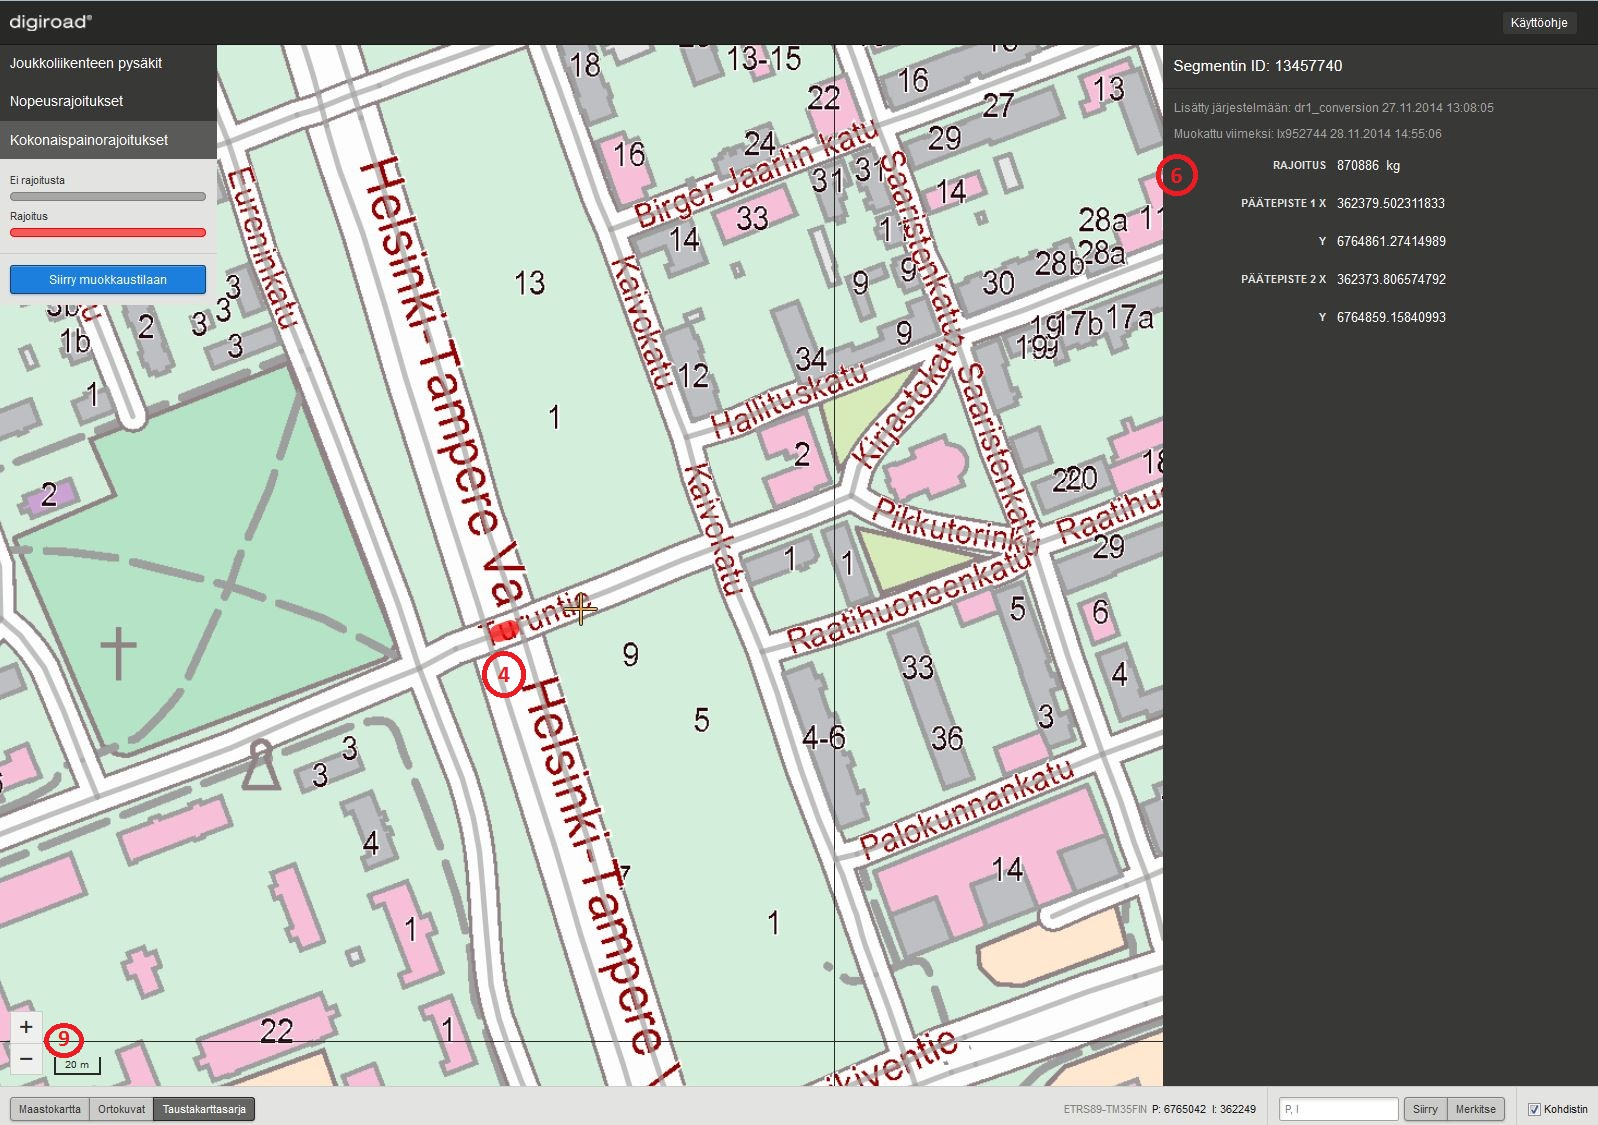
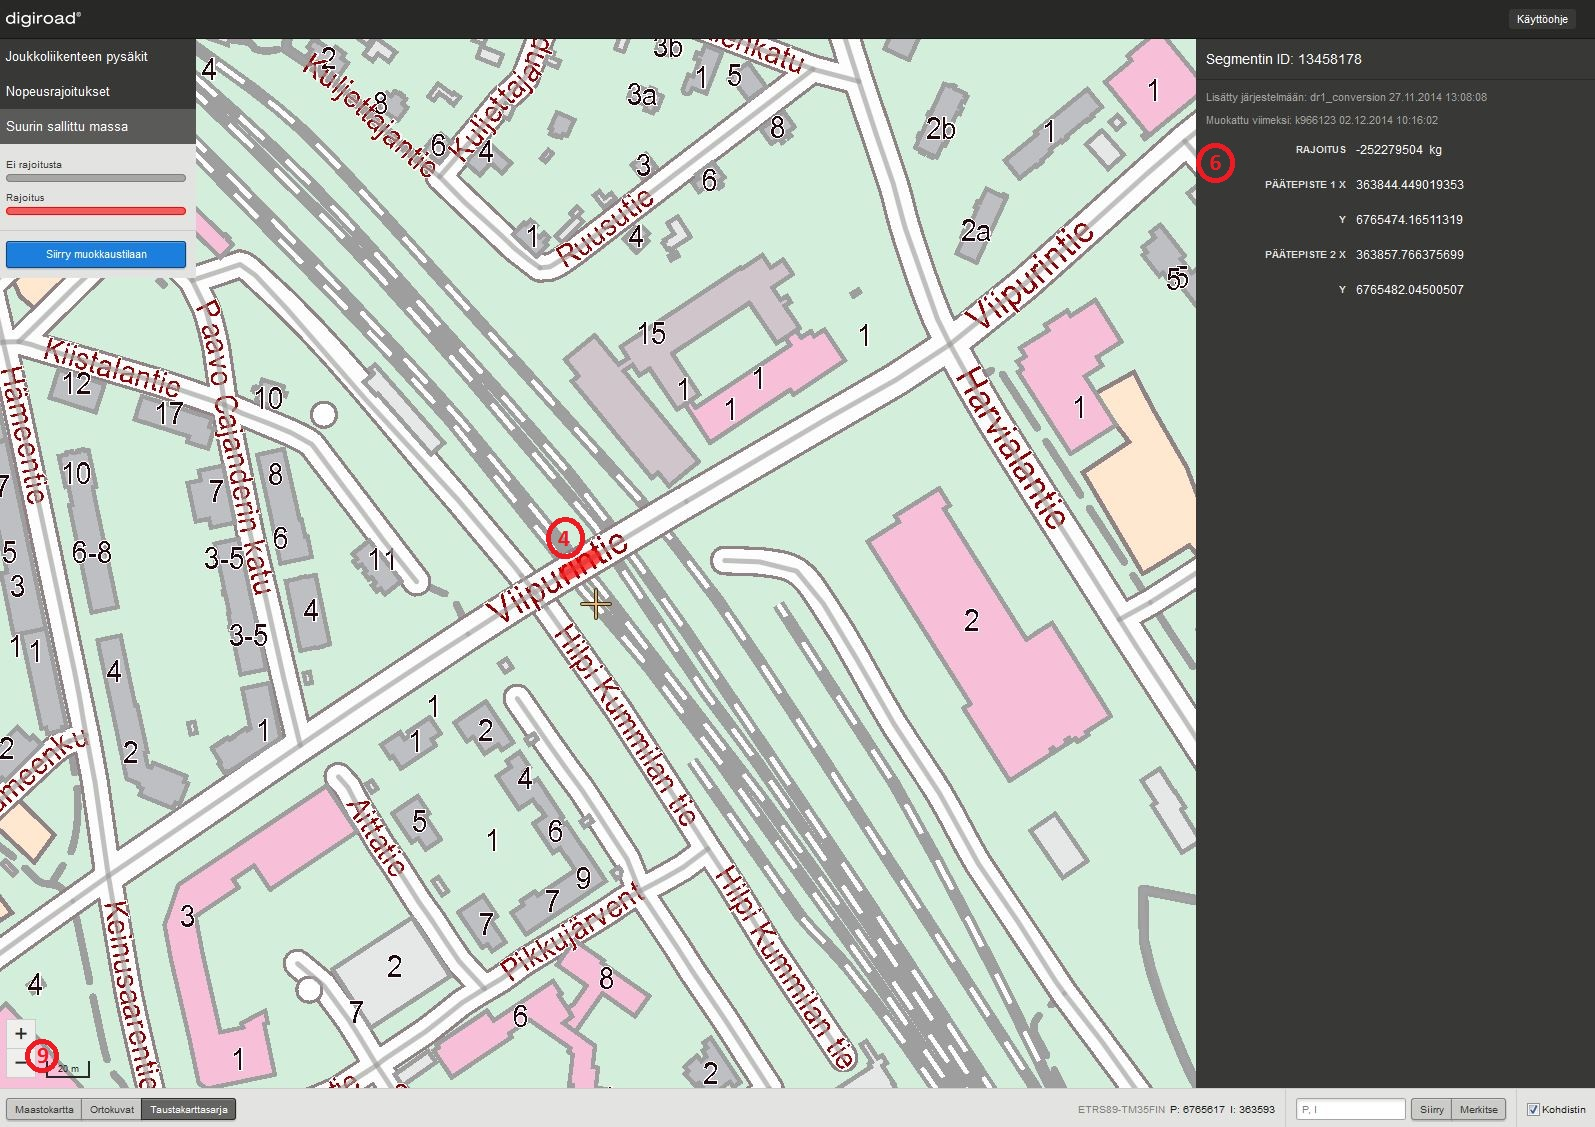
update manual

diff --git a/UI/manual/index.md b/UI/manual/index.md
@@ -195,10 +195,10 @@ Jos tielinkill&auml; ei ole nopeusrajoitusta, sovellus generoi sen itse siten, e
 
 _Nopeusrajoitusten valinta._
 
-3.5 Kokonaispainorajoitusten valinta
+3.5 Suurin sallittu massa -valinta
 ------------------------------------
 
-Kartalle voi valita kokonaispainorajoitukset valitsemalla tietolajit-paletista (1) Kokonaispainorajoitukset. kokonaispainorajoitukset n&auml;kyv&auml;t, kun kartan mittakaavataso on 1:20 000 tai tarkempi (9). Karttaa tarkennettaessa kokonaispainorajoitukset paksuuntuvat, jotta niiden erottaminen on helpompaa. Kokonaispainorajoitukset on visualisoitu punaisella v&auml;rill&auml; ja tielinkit, joilla rajoitusta ei ole, on visualisoitu harmaalla v&auml;rill&auml;.
+Kartalle voi valita tietolajit-paletista (1) Suurin sallittu massa -valinnan. Suurimmat sallitut massat n&auml;kyv&auml;t, kun kartan mittakaavataso on 1:20 000 tai tarkempi (9). Karttaa tarkennettaessa geometriat paksuuntuvat, jotta niiden erottaminen on helpompaa. Geometriat on visualisoitu punaisella v&auml;rill&auml; ja tielinkit, joilla suurinta sallittua massaa ei ole, on visualisoitu harmaalla v&auml;rill&auml;.
 
 4. Katselutila
 --------------
@@ -235,14 +235,14 @@ Nopeusrajoitukset on visualisoitu eri tavoin riippuen vaikutussuunnasta. Nopeusr
 
 _Nopeusrajoitusten visualisointi._
 
-4.3 Kokonaispainorajoitusten tietojen katselu
+4.3 Suurimman sallitun massan tietojen katselu
 ---------------------------------------------
 
-Kokonaispainorajoitukset tulevat n&auml;kyviin, kun kartan mittakaavataso on 1:20 000 tai tarkempi (9). Yksitt&auml;isen kokonaispainorajoituksen voi valita klikkaamalla kartalta sen geometriaa (4). Kokonaispainorajoituksen geometria tummentuu ja muut kokonaispainorajoitukset n&auml;kyv&auml;t haaleammalla. Sivun oikeaan laitaan avautuu kokonaispainorajoituksen ominaisuustieton&auml;kym&auml;.
+Suurimmat sallitut massat tulevat n&auml;kyviin, kun kartan mittakaavataso on 1:20 000 tai tarkempi (9). Yksitt&auml;isen suurimman sallitun massan voi valita klikkaamalla kartalta sen geometriaa (4). Geometria tummentuu ja muut suurimmat sallitut massat n&auml;kyv&auml;t haaleammalla. Sivun oikeaan laitaan avautuu suurimman sallitun massan ominaisuustieton&auml;kym&auml;.
 
-![Kokonaispainorajoitusten tietojen katselu](k31.JPG)
+![Suurimman sallitun tietojen katselu](k31.JPG)
 
-_Kokonaispainorajoitusten katsleutila._
+_Suurin sallittu massa - katsleutila._
 
 5. Muokkaustila
 ---------------
@@ -455,18 +455,18 @@ Uusi nopeusrajoitus tallennetaan Tallenna-painikkeesta. Tallentamisen j&auml;lke
 
 Nopeusrajoituksen katkaisemisen voi perua Peruuta-Painikkeesta, joka palauttaa alkuper&auml;isen nopeusrajoituksen voimaan. 
 
-5.2 Kokonaispainorajoitukset
+5.2 Suurin sallittu massa
 ----------------------------
 
-Tien kokonaispainorajoitus on suurin sallittu massa, jonka avoneuvo saa tiehen kohdistaa.
+Tien suurin sallittu massa on suurin sallittu massa, jonka avoneuvo saa tiehen kohdistaa.
 
-5.2.1 Kokonaispainorajoituksen ominaisuustietojen muokkaus
+5.2.1 Suurimman sallitun massan ominaisuustietojen muokkaus
 ----------------------------------------------------------
 
-Toistaiseksi kokonaispainorajoituksia voi muokata vain operaattorik&auml;ytt&auml;j&auml;. Muilla k&auml;ytt&auml;jill&auml; ei ole muokkaustilaa k&auml;yt&ouml;ss&auml;&auml;n.
+Toistaiseksi suurinta sallittua massaa voi muokata vain operaattorik&auml;ytt&auml;j&auml;. Muilla k&auml;ytt&auml;jill&auml; ei ole muokkaustilaa k&auml;yt&ouml;ss&auml;&auml;n.
 
-Kokonaispainorajoitusta muokataan muokkaustilassa. Muokattava kokonaispainorajoitus valitaan klikkaamalla sen geometriaa (4). Tietoja muokataan ominaisuustieton&auml;kym&auml;ss&auml; (6). Muutokset tallennetaan painamalla Tallenna-painiketta oikeasta alakulmasta (8). Ennen Tallenna-painikkeen painamista muutokset voi peruuttaa painamalla Peruuta-painiketta (9). Tallenna- ja Peruuta -painikkeet eiv&auml;t ole aktiivisina, jos muutoksia ei ole tehty. Jos muutoksia on tehty eik&auml; niit&auml; ole tallennettu tai peruutettu ja siirryt&auml;&auml;n pois kokonaispainorajoituksen valinnasta, sovellus antaa muutos-dialogin. Muutos-dialogi kertoo k&auml;ytt&auml;j&auml;lle, ett&auml; muutoksia on tehty ja ne tulee tallentaa tai peruuttaa ennen kuin voi jatkaa.
+Suurinta sallittua massaa muokataan muokkaustilassa. Muokattava suurin sallittu massa valitaan klikkaamalla sen geometriaa (4). Tietoja muokataan ominaisuustieton&auml;kym&auml;ss&auml; (6). Muutokset tallennetaan painamalla Tallenna-painiketta oikeasta alakulmasta (8). Ennen Tallenna-painikkeen painamista muutokset voi peruuttaa painamalla Peruuta-painiketta (9). Tallenna- ja Peruuta -painikkeet eiv&auml;t ole aktiivisina, jos muutoksia ei ole tehty. Jos muutoksia on tehty eik&auml; niit&auml; ole tallennettu tai peruutettu ja siirryt&auml;&auml;n pois kokonaispainorajoituksen valinnasta, sovellus antaa muutos-dialogin. Muutos-dialogi kertoo k&auml;ytt&auml;j&auml;lle, ett&auml; muutoksia on tehty ja ne tulee tallentaa tai peruuttaa ennen kuin voi jatkaa.
 
-![Kokonaispainorajoitusten muokkaus](k32.JPG)
+![Suurimman sallitun massan muokkaus](k32.JPG)
 
-_Kokonaispainorajoitusten muokkaus._
+_Suurimman sallitun massan muokkaus._
